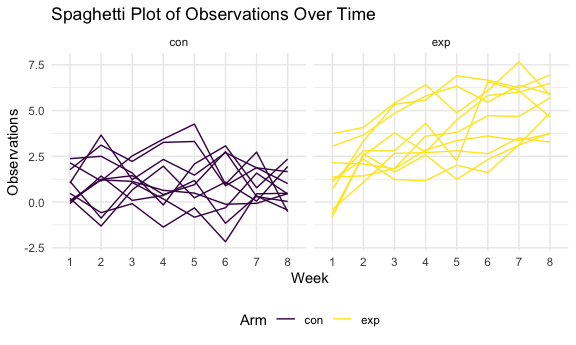
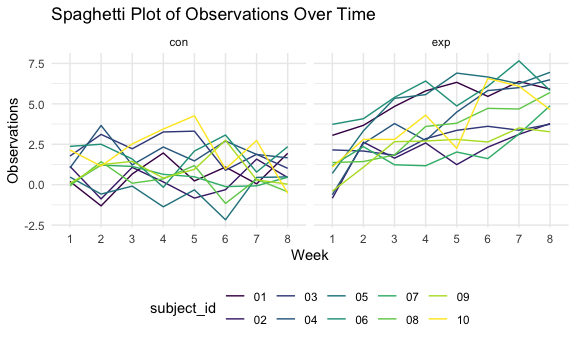
dataset in question 3

diff --git a/p8105_hw5_yz4434.md b/p8105_hw5_yz4434.md
@@ -4,6 +4,9 @@ Homework 5
 ``` r
 library(tidyverse)
 library(readr)
+library(ggplot2)
+library(dplyr)
+library(broom)
 ```
 
 # Question 1
@@ -171,36 +174,17 @@ mutate(
     ## ℹ Use `spec()` to retrieve the full column specification for this data.
     ## ℹ Specify the column types or set `show_col_types = FALSE` to quiet this message.
 
-``` r
-study_df
-```
-
-    ## # A tibble: 160 × 4
-    ##    arm   subject_id week  observations
-    ##    <chr> <chr>      <chr>        <dbl>
-    ##  1 con   01         1             0.2 
-    ##  2 con   01         2            -1.31
-    ##  3 con   01         3             0.66
-    ##  4 con   01         4             1.96
-    ##  5 con   01         5             0.23
-    ##  6 con   01         6             1.09
-    ##  7 con   01         7             0.05
-    ##  8 con   01         8             1.94
-    ##  9 con   02         1             1.13
-    ## 10 con   02         2            -0.88
-    ## # ℹ 150 more rows
-
 Spaghetti Plot
 
 ``` r
 spaghetti_plot =
   study_df |> 
-  ggplot(aes(x= week, y=observations, group=subject_id, color=arm))+geom_line()+
+  ggplot(aes(x= week, y=observations, group=subject_id, color=subject_id))+geom_line()+
   facet_grid(~arm)+
     labs(title = "Spaghetti Plot of Observations Over Time",
        x = "Week",
        y = "Observations",
-       color = "Arm")
+       color = "subject_id")
 
 spaghetti_plot
 ```
@@ -210,4 +194,34 @@ Comments: Compare these two spaghetti plots group by arm, we can see
 that the control arm has the range of observations between around -2.45
 and 4.25, however the experimental arm has the range of observations
 between around -1.45 and 7.50, which is more higher and larger range
-than the control arm. \# Question 3
+than the control arm.
+
+# Question 3
+
+Create dataset
+
+``` r
+set.seed(12345)
+
+sim_df = function(mu,n=30,sigma=5) {
+  data =rnorm(n=30, mean = mu, sd=sigma)
+  p_value=t.test(data, mu=0 ,alpha = 0.05)
+  p_value |> 
+    broom::tidy() |> 
+    select(estimate, p.value)
+}
+
+sim_results_df= map(1:5000,\(i) sim_df(mu=0))|> bind_rows()
+```
+
+## Making plots with conditions of μ={1,2,3,4,5,6}
+
+``` r
+mu_result_df = 
+  expand_grid(
+    mu = c(1:6),
+    iter = 1:5000
+  ) |> 
+  mutate(estimate = map(mu, sim_df)) |> unnest(estimate) |> 
+  mutate(power=p.value<0.05)
+```
